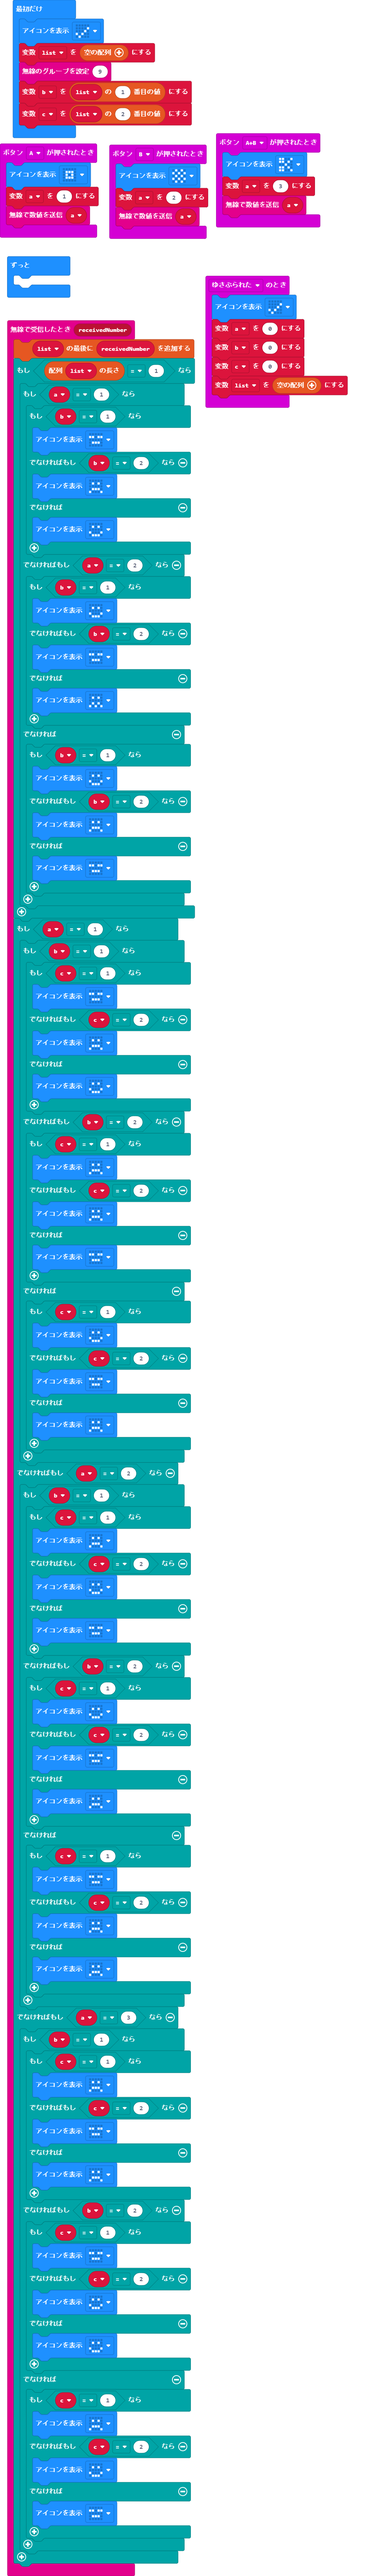
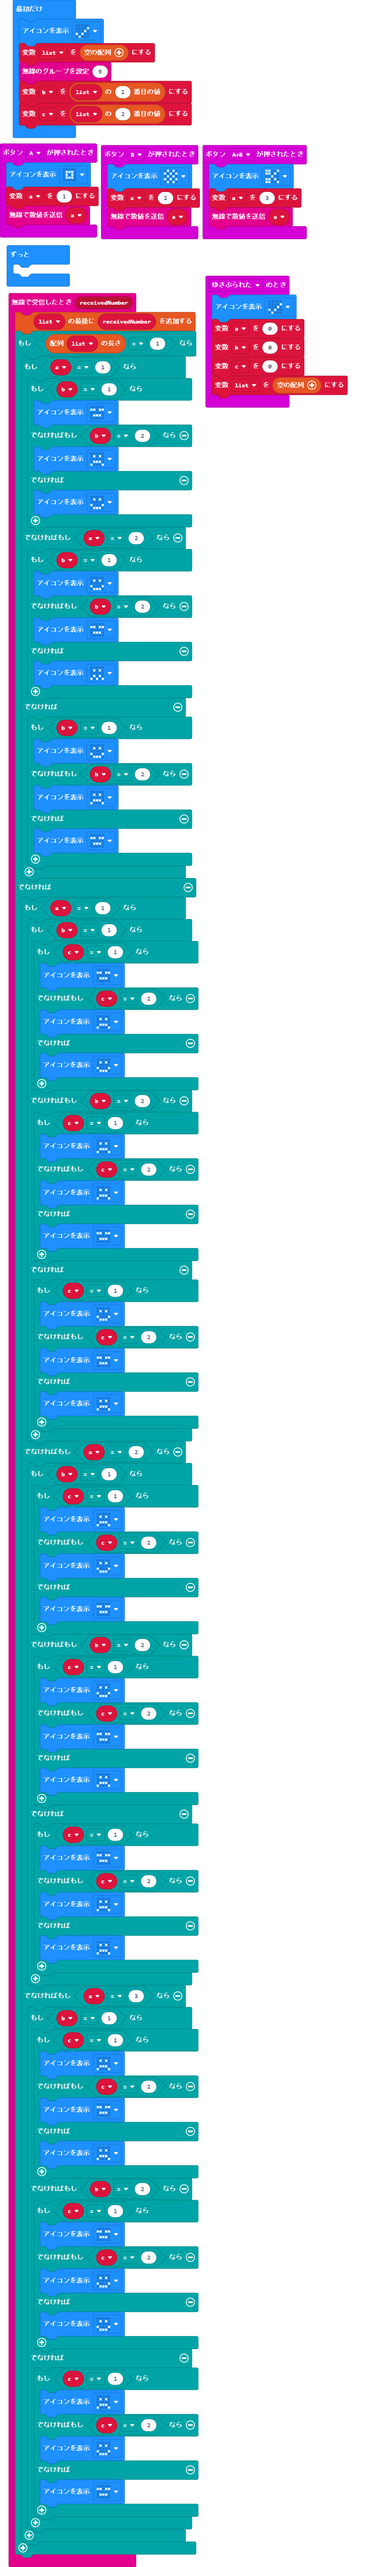
Update main.blocks, main.ts

Changed region(s): [[0.0, 0.0311, 0.8666, 1.0]]

diff --git a/main.ts b/main.ts
@@ -26,83 +26,84 @@ radio.onReceivedNumber(function (receivedNumber) {
                 basic.showIcon(IconNames.Asleep)
             }
         }
-    }
-    if (a == 1) {
-        if (b == 1) {
-            if (c == 1) {
-                basic.showIcon(IconNames.Asleep)
-            } else if (c == 2) {
-                basic.showIcon(IconNames.Sad)
+    } else {
+        if (a == 1) {
+            if (b == 1) {
+                if (c == 1) {
+                    basic.showIcon(IconNames.Asleep)
+                } else if (c == 2) {
+                    basic.showIcon(IconNames.Sad)
+                } else {
+                    basic.showIcon(IconNames.Happy)
+                }
+            } else if (b == 2) {
+                if (c == 1) {
+                    basic.showIcon(IconNames.Sad)
+                } else if (c == 2) {
+                    basic.showIcon(IconNames.Sad)
+                } else {
+                    basic.showIcon(IconNames.Asleep)
+                }
             } else {
-                basic.showIcon(IconNames.Happy)
+                if (c == 1) {
+                    basic.showIcon(IconNames.Happy)
+                } else if (c == 2) {
+                    basic.showIcon(IconNames.Asleep)
+                } else {
+                    basic.showIcon(IconNames.Sad)
+                }
             }
-        } else if (b == 2) {
-            if (c == 1) {
-                basic.showIcon(IconNames.Sad)
-            } else if (c == 2) {
-                basic.showIcon(IconNames.Sad)
+        } else if (a == 2) {
+            if (b == 1) {
+                if (c == 1) {
+                    basic.showIcon(IconNames.Sad)
+                } else if (c == 2) {
+                    basic.showIcon(IconNames.Happy)
+                } else {
+                    basic.showIcon(IconNames.Asleep)
+                }
+            } else if (b == 2) {
+                if (c == 1) {
+                    basic.showIcon(IconNames.Happy)
+                } else if (c == 2) {
+                    basic.showIcon(IconNames.Asleep)
+                } else {
+                    basic.showIcon(IconNames.Sad)
+                }
             } else {
-                basic.showIcon(IconNames.Asleep)
+                if (c == 1) {
+                    basic.showIcon(IconNames.Asleep)
+                } else if (c == 2) {
+                    basic.showIcon(IconNames.Sad)
+                } else {
+                    basic.showIcon(IconNames.Sad)
+                }
             }
-        } else {
-            if (c == 1) {
-                basic.showIcon(IconNames.Happy)
-            } else if (c == 2) {
-                basic.showIcon(IconNames.Asleep)
+        } else if (a == 3) {
+            if (b == 1) {
+                if (c == 1) {
+                    basic.showIcon(IconNames.Sad)
+                } else if (c == 2) {
+                    basic.showIcon(IconNames.Asleep)
+                } else {
+                    basic.showIcon(IconNames.Sad)
+                }
+            } else if (b == 2) {
+                if (c == 1) {
+                    basic.showIcon(IconNames.Asleep)
+                } else if (c == 2) {
+                    basic.showIcon(IconNames.Happy)
+                } else {
+                    basic.showIcon(IconNames.Happy)
+                }
             } else {
-                basic.showIcon(IconNames.Sad)
-            }
-        }
-    } else if (a == 2) {
-        if (b == 1) {
-            if (c == 1) {
-                basic.showIcon(IconNames.Sad)
-            } else if (c == 2) {
-                basic.showIcon(IconNames.Happy)
-            } else {
-                basic.showIcon(IconNames.Asleep)
-            }
-        } else if (b == 2) {
-            if (c == 1) {
-                basic.showIcon(IconNames.Happy)
-            } else if (c == 2) {
-                basic.showIcon(IconNames.Asleep)
-            } else {
-                basic.showIcon(IconNames.Sad)
-            }
-        } else {
-            if (c == 1) {
-                basic.showIcon(IconNames.Asleep)
-            } else if (c == 2) {
-                basic.showIcon(IconNames.Sad)
-            } else {
-                basic.showIcon(IconNames.Sad)
-            }
-        }
-    } else if (a == 3) {
-        if (b == 1) {
-            if (c == 1) {
-                basic.showIcon(IconNames.Sad)
-            } else if (c == 2) {
-                basic.showIcon(IconNames.Asleep)
-            } else {
-                basic.showIcon(IconNames.Sad)
-            }
-        } else if (b == 2) {
-            if (c == 1) {
-                basic.showIcon(IconNames.Asleep)
-            } else if (c == 2) {
-                basic.showIcon(IconNames.Happy)
-            } else {
-                basic.showIcon(IconNames.Happy)
-            }
-        } else {
-            if (c == 1) {
-                basic.showIcon(IconNames.Sad)
-            } else if (c == 2) {
-                basic.showIcon(IconNames.Happy)
-            } else {
-                basic.showIcon(IconNames.Asleep)
+                if (c == 1) {
+                    basic.showIcon(IconNames.Sad)
+                } else if (c == 2) {
+                    basic.showIcon(IconNames.Happy)
+                } else {
+                    basic.showIcon(IconNames.Asleep)
+                }
             }
         }
     }
